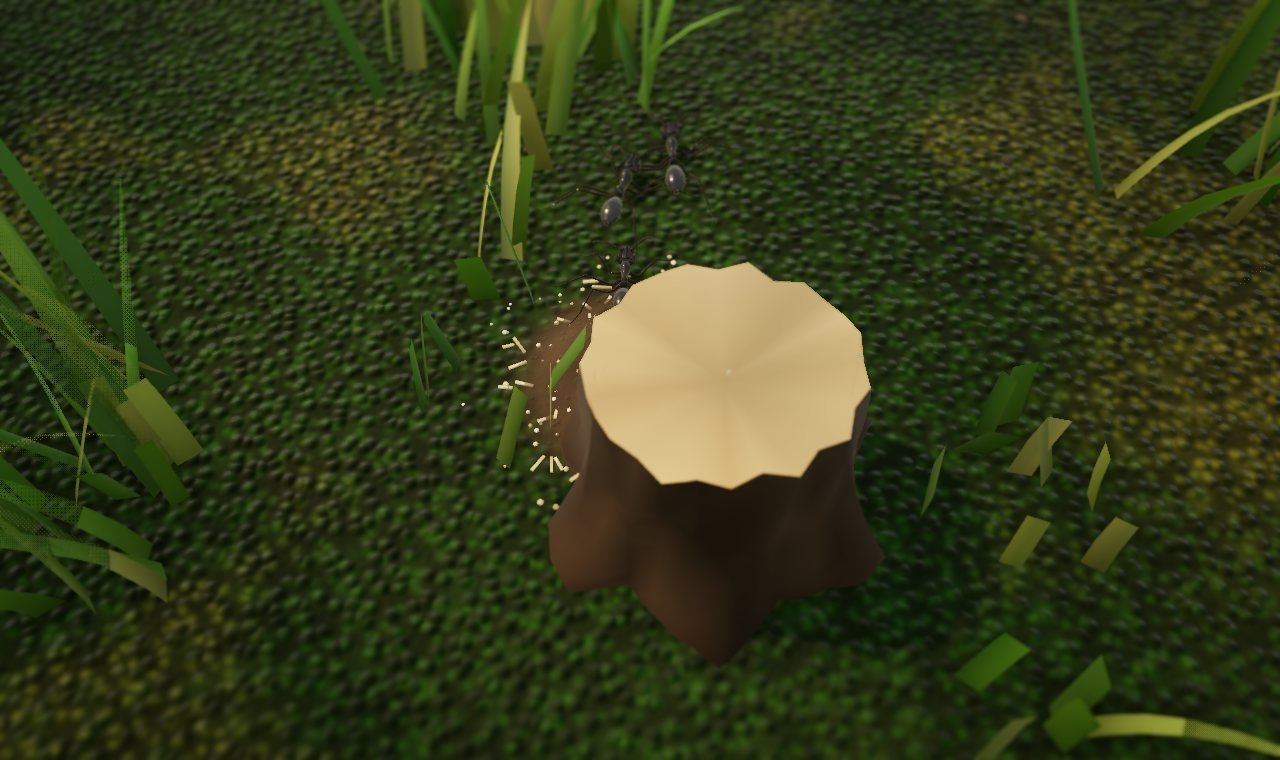
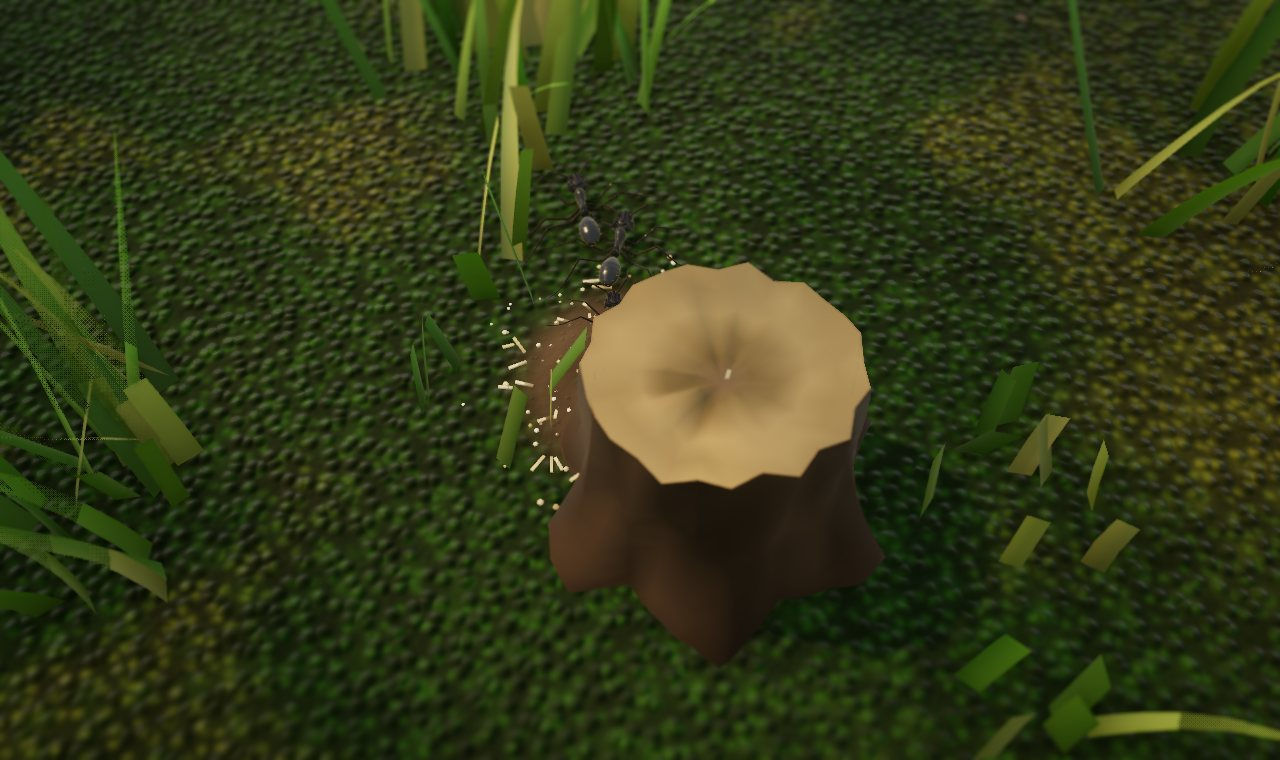
Stump top: finer, darker growth rings
Claude-Session: https://claude.ai/code/session_01MHhvayxRSszQFax75UpbXx

diff --git a/src/render/game/entranceModels.ts b/src/render/game/entranceModels.ts
@@ -576,7 +576,7 @@ function stumpMesh(m: Mass, ground: (x: number, y: number) => number, rng: Rng):
   }
   // the decayed top: growth rings in rotting wood, darker and dished toward a crumbling heart
   const topStart = pos.length / 3;
-  const RR = 5;
+  const RR = 12;
   pos.push(m.x, g0 + m.h * 0.8, m.y);
   col.push(0.16, 0.1, 0.06);
   for (let rr = 1; rr <= RR; rr++) {
@@ -591,7 +591,7 @@ function stumpMesh(m: Mass, ground: (x: number, y: number) => number, rng: Rng):
       const dish = (1 - f) * m.h * 0.12 * (0.6 + 0.4 * valueNoise2(i, rr, m.seed));
       pos.push(x, ey - 0.05 - dish, z);
       const ring = 0.5 + 0.5 * Math.sin(f * 22 + valueNoise2(i * 0.5, rr, m.seed) * 2);
-      tmpC.copy(rot).multiplyScalar((0.45 + 0.25 * ring) * (0.55 + 0.45 * f));
+      tmpC.copy(rot).multiplyScalar((0.38 + 0.3 * ring) * (0.6 + 0.4 * f));
       col.push(tmpC.r, tmpC.g, tmpC.b);
     }
   }
